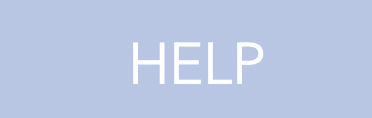
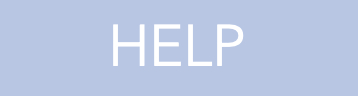
Updated UI

Changed region(s): [[0.3073, 0.25, 0.7067, 0.7188]]

diff --git a/desktop/src/com/group4/dicechess/GUI/SettingsScreen.java b/desktop/src/com/group4/dicechess/GUI/SettingsScreen.java
@@ -5,7 +5,6 @@ import com.badlogic.gdx.InputAdapter;
 import com.badlogic.gdx.Screen;
 import com.badlogic.gdx.graphics.Texture;
 import com.badlogic.gdx.graphics.g2d.Sprite;
-import com.badlogic.gdx.graphics.g2d.SpriteBatch;
 import com.badlogic.gdx.utils.ScreenUtils;
 
 public class SettingsScreen implements Screen {
@@ -18,7 +17,6 @@ public class SettingsScreen implements Screen {
     public SettingsScreen(DiceChessGame currentGame){
         this.game = currentGame;
         this.textureUtils = new TextureUtils();
-
     }
 
     @Override
@@ -38,17 +36,50 @@ public class SettingsScreen implements Screen {
                     game.setScreen(new MenuScreen(game));
                     Gdx.input.setInputProcessor(null);
                 }
+                if(screenX >= 350 && screenX <= 550 && screenY >= 310 && screenY <= 360){
+                    game.setScreen(new HelpScreen(game));
+                    Gdx.input.setInputProcessor(null);
+                }
+                if(screenX >= 350 && screenX <= 550 && screenY >= 400 && screenY <= 450){
+                    System.out.println("Working on sound...");
+                }
+                if(screenX >= 350 && screenX <= 550 && screenY >= 220 && screenY <= 270){
+                    System.out.println("Working on bots...");
+                }
+                return true;
+            }
+
+            @Override
+            public boolean mouseMoved(int screenX, int screenY) {
+                if(screenX >= 350 && screenX <= 550 && screenY >= 310 && screenY <= 360){
+                    textureUtils.spriteHelp.setPosition(347, 237);
+                    textureUtils.spriteHelp.setSize(204, 54);
+                } else{
+                    textureUtils.spriteHelp.setPosition(350, 240);
+                    textureUtils.spriteHelp.setSize(200, 50);
+                }
+                if(screenX >= 350 && screenX <= 550 && screenY >= 400 && screenY <= 450){
+                    textureUtils.spriteSound.setPosition(347, 147);
+                    textureUtils.spriteSound.setSize(204, 54);
+                } else{
+                    textureUtils.spriteSound.setPosition(350, 150);
+                    textureUtils.spriteSound.setSize(200, 50);
+                }
+                if(screenX >= 350 && screenX <= 550 && screenY >= 220 && screenY <= 270){
+                    textureUtils.spriteBots.setPosition(347, 327);
+                    textureUtils.spriteBots.setSize(204, 54);
+                } else{
+                    textureUtils.spriteBots.setPosition(350, 330);
+                    textureUtils.spriteBots.setSize(200, 50);
+                }
                 return true;
             }
         });
         ScreenUtils.clear(1, 1, 1, 1);
         game.batch.begin();
-        //game.batch.draw(textureUtils.PVPInActive, 350,510, textureUtils.PVP_WIDTH,textureUtils.PVP_HEIGHT);
-        //game.batch.draw(textureUtils.PVAInActive, 350, 420, textureUtils.PVA_WIDTH, textureUtils.PVA_HEIGHT);
-        game.batch.draw(textureUtils.AVAInActive, 350, 330, textureUtils.AVA_WIDTH, textureUtils.AVA_HEIGHT);
-        game.batch.draw(textureUtils.HELPInActive, 350, 240, textureUtils.HELP_WIDTH, textureUtils.HELP_HEIGHT);
-        game.batch.draw(textureUtils.SoundInActive, 350, 150, textureUtils.SOUND_WIDTH, textureUtils.SOUND_HEIGHT);
-        //game.batch.draw(textureUtils.noSoundInActive, 350, 60, textureUtils.NOSOUND_WIDTH, textureUtils.NOSOUND_HEIGHT);
+        game.batch.draw(textureUtils.bots, textureUtils.spriteBots.getX(), textureUtils.spriteBots.getY(), textureUtils.spriteBots.getWidth(), textureUtils.spriteBots.getHeight());
+        game.batch.draw(textureUtils.help, textureUtils.spriteHelp.getX(), textureUtils.spriteHelp.getY(), textureUtils.spriteHelp.getWidth(), textureUtils.spriteHelp.getHeight());
+        game.batch.draw(textureUtils.sound, textureUtils.spriteSound.getX(), textureUtils.spriteSound.getY(), textureUtils.spriteSound.getWidth(), textureUtils.spriteSound.getHeight());
         game.batch.draw(spriteArrow, spriteArrow.getX(), spriteArrow.getY(), spriteArrow.getWidth(), spriteArrow.getHeight());
         game.batch.end();
     }

diff --git a/desktop/src/com/group4/dicechess/GUI/TextureUtils.java b/desktop/src/com/group4/dicechess/GUI/TextureUtils.java
@@ -2,7 +2,6 @@ package com.group4.dicechess.GUI;
 
 import com.badlogic.gdx.graphics.Texture;
 import com.badlogic.gdx.graphics.g2d.Sprite;
-
 import java.util.Random;
 
 public class TextureUtils {
@@ -15,6 +14,10 @@ public class TextureUtils {
     Texture dice5;
     Texture dice6;
     Texture notation;
+    Texture backArrow;
+    Texture sound;
+    Texture help;
+    Texture bots;
     Sprite spriteNotation;
     Sprite spriteDice1;
     Sprite spriteDice2;
@@ -23,33 +26,11 @@ public class TextureUtils {
     Sprite spriteDice4;
     Sprite spriteDice5;
     Sprite spriteDice6;
-    Texture backArrow;
     Sprite spriteArrow;
+    Sprite spriteHelp;
+    Sprite spriteSound;
+    Sprite spriteBots;
     int currentSide;
-    int PVA_WIDTH= 200;
-    int PVA_HEIGHT=50;
-    int PVP_WIDTH= 200;
-    int PVP_HEIGHT = 50;
-    int AVA_WIDTH= 200;
-    int AVA_HEIGHT = 50;
-    int HELP_WIDTH = 200;
-    int HELP_HEIGHT = 50;
-    int SOUND_WIDTH = 200;
-    int SOUND_HEIGHT = 50;
-    int NOSOUND_WIDTH = 200;
-    int NOSOUND_HEIGHT = 50;
-    Texture PVAActive;
-    Texture PVPActive;
-    Texture AVAActive;
-    Texture HELPActive;
-    Texture SoundActive;
-    Texture PVAInActive;
-    Texture PVPInActive;
-    Texture AVAInActive;
-    Texture HELPInActive;
-    Texture SoundInActive;
-    Texture noSoundInActive;
-    Texture NOSoundActive;
 
     public TextureUtils(){
         this.currentSide = 1;
@@ -62,6 +43,12 @@ public class TextureUtils {
         dice5 = new Texture("FinalAssets/5.jpg");
         dice6 = new Texture("FinalAssets/6.jpg");
         backArrow = new Texture("FinalAssets/backArrow.png");
+        help = new Texture("TestAssets/help.png");
+        sound = new Texture("TestAssets/soundON.png");
+        bots = new Texture("TestAssets/bots.png");
+        spriteHelp = new Sprite(help);
+        spriteSound = new Sprite(sound);
+        spriteBots = new Sprite(bots);
         spriteNotation = new Sprite(notation);
         spriteDice1 = new Sprite(dice1);
         spriteDice2 = new Sprite(dice2);
@@ -89,25 +76,17 @@ public class TextureUtils {
         spriteDice5.setSize(80, 80);
         spriteDice6.setPosition(710, 450);
         spriteDice6.setSize(80, 80);
-        PVPActive = new Texture("TestAssets/PVP.jpg");
-        PVPInActive = new Texture("TestAssets/PVP.jpg");
-        PVAActive=new Texture("TestAssets/PVA.jpg");
-        PVAInActive=new Texture("TestAssets/PVA.jpg");
-        HELPActive = new Texture("TestAssets/HELP.jpg");
-        HELPInActive = new Texture("TestAssets/HELP.jpg");
-        SoundActive= new Texture("TestAssets/soundON.png");
-        SoundInActive= new Texture("TestAssets/soundON.png");
-        AVAActive= new Texture("TestAssets/bots.png");
-        AVAInActive= new Texture("TestAssets/bots.png");
-        HELPActive=new Texture("TestAssets/helpm.png");
-        HELPInActive=new Texture("TestAssets/helpm.png");
-        noSoundInActive=new Texture("TestAssets/soundOFF.png");
-        NOSoundActive=new Texture("TestAssets/soundOFF.png");
+        spriteHelp.setPosition(350, 240);
+        spriteHelp.setSize(200, 50);
+        spriteSound.setPosition(350, 150);
+        spriteSound.setSize(200, 50);
+        spriteBots.setPosition(350, 330);
+        spriteBots.setSize(200, 50);
     }
 
     public void Roll() {
         int max = 6;
         Random random = new Random();
-        currentSide = (int) random.nextInt(max) + 1;
+        currentSide = random.nextInt(max) + 1;
     }
 }

diff --git a/desktop/src/com/group4/dicechess/GUI/HelpScreen.java b/desktop/src/com/group4/dicechess/GUI/HelpScreen.java
@@ -1,0 +1,59 @@
+package com.group4.dicechess.GUI;
+
+import com.badlogic.gdx.Gdx;
+import com.badlogic.gdx.InputAdapter;
+import com.badlogic.gdx.Screen;
+import com.badlogic.gdx.graphics.Texture;
+import com.badlogic.gdx.graphics.g2d.Sprite;
+import com.badlogic.gdx.utils.ScreenUtils;
+
+public class HelpScreen implements Screen {
+
+    Texture backArrow;
+    Sprite spriteArrow;
+    TextureUtils textureUtils;
+    DiceChessGame game;
+
+    public HelpScreen(DiceChessGame currentGame){
+        this.game = currentGame;
+        this.textureUtils = new TextureUtils();
+
+    }
+
+    @Override
+    public void show() {
+        backArrow = new Texture("FinalAssets/backArrow.png");
+        spriteArrow = new Sprite(backArrow);
+        spriteArrow.setPosition(10, 550);
+        spriteArrow.setSize(50, 50);
+    }
+
+    @Override
+    public void render(float delta) {
+        Gdx.input.setInputProcessor(new InputAdapter(){
+            @Override
+            public boolean touchDown(int screenX, int screenY, int pointer, int button) {
+                if(screenX >= 15 && screenX <= 45 && screenY >= 10 && screenY <= 40){
+                    game.setScreen(new SettingsScreen(game));
+                    Gdx.input.setInputProcessor(null);
+                }
+                return true;
+            }
+        });
+        ScreenUtils.clear(1, 1, 1, 1);
+        game.batch.begin();
+        game.batch.draw(spriteArrow, spriteArrow.getX(), spriteArrow.getY(), spriteArrow.getWidth(), spriteArrow.getHeight());
+        game.batch.end();
+    }
+
+    @Override
+    public void resize(int width, int height) {}
+    @Override
+    public void pause() {}
+    @Override
+    public void resume() {}
+    @Override
+    public void hide() {}
+    @Override
+    public void dispose() {backArrow.dispose();}
+}
